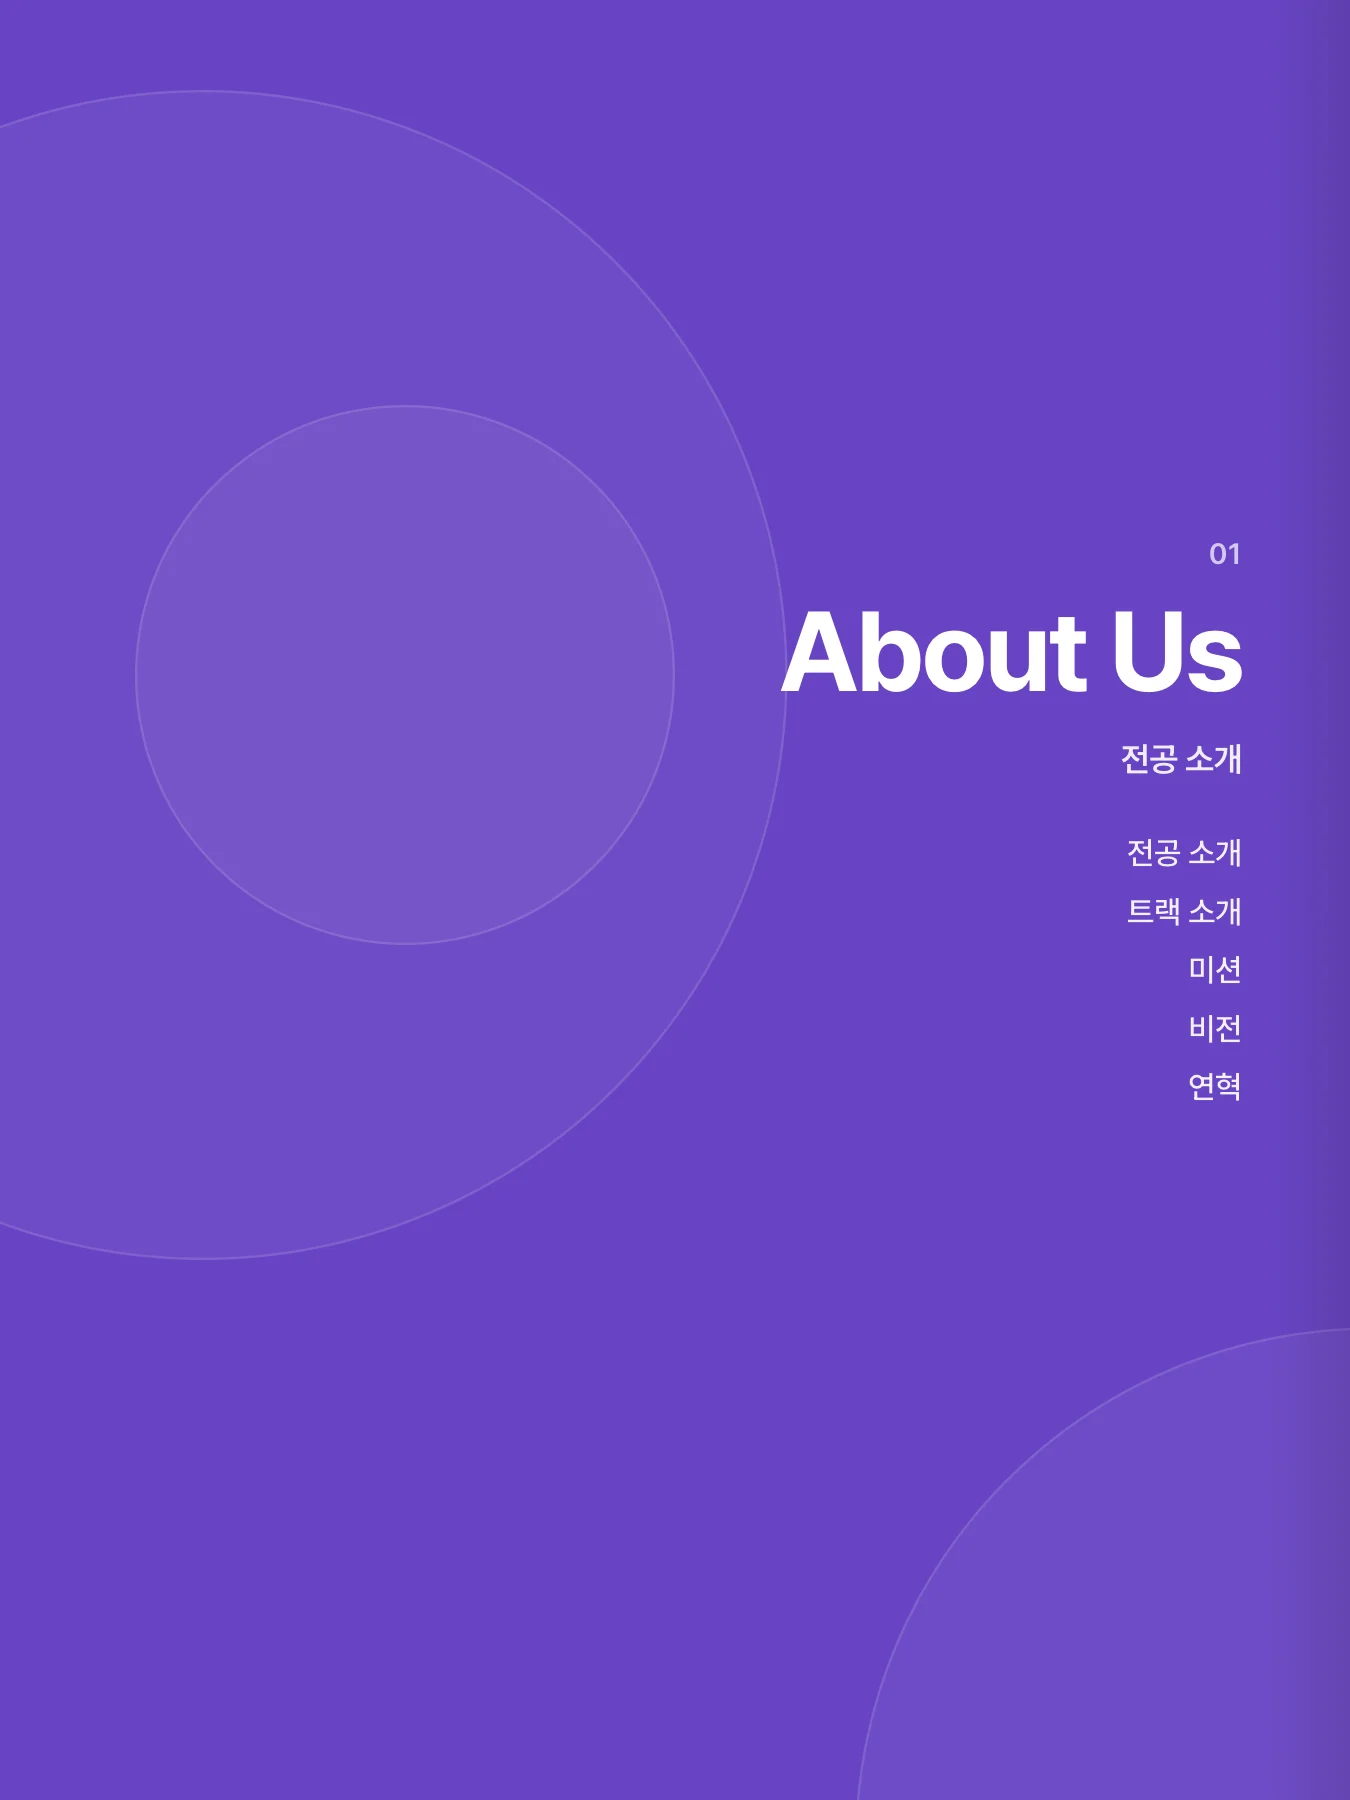
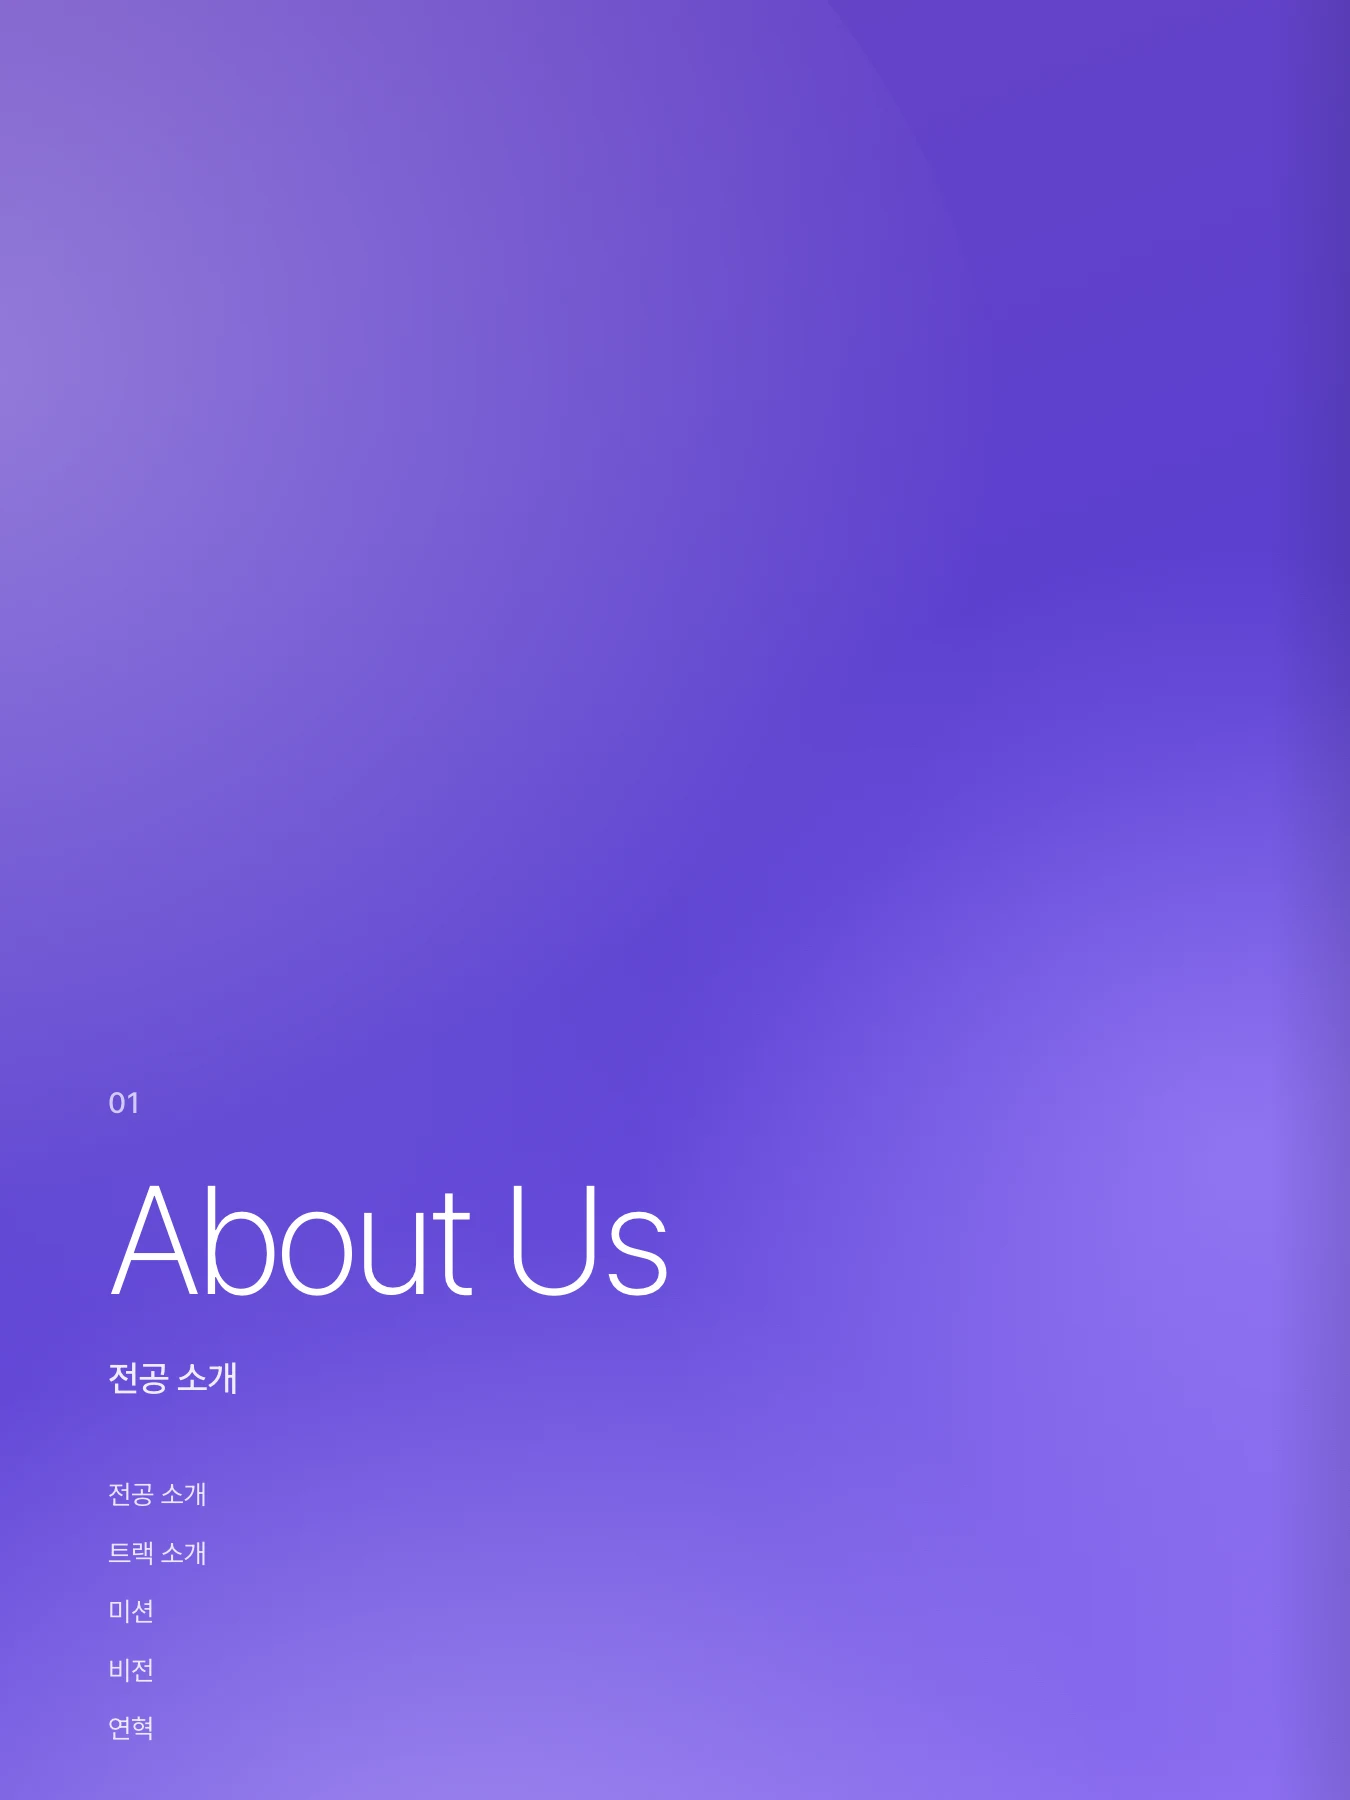
애뉴얼 리포트 장 표지 11쪽: 보라 그라데이션 전면과 가는 굵기 큰 제목으로 변경, 제목 위치를 모든 장에서 같게 고정

diff --git a/client/src/pages/annual/annualPages.css b/client/src/pages/annual/annualPages.css
@@ -1787,3 +1787,67 @@
 .ap-awone.is-narrow {
   grid-template-columns: 160px 1fr !important;
 }
+
+/* 장 표지 2안: 쪽 전체를 보라 그라데이션으로 채우고, 큰 빛 덩어리 셋이 쪽을 가로지르며, 제목은 가는 굵기로 크게.
+   (참고: 한국 연보 제작 사례의 풀블리드 그라데이션 장 표지) */
+.ap-sheet--opener {
+  background: linear-gradient(158deg, rgb(var(--dah-purple-deep)) 0%, #5a3fd1 52%, #8d70f2 100%);
+}
+.ap-opener__ring {
+  border: 0;
+}
+.ap-opener__ring--a {
+  width: 780px;
+  height: 780px;
+  left: -330px;
+  top: -150px;
+  background: radial-gradient(circle at 40% 40%, rgb(255 255 255 / 0.3), rgb(255 255 255 / 0.05) 58%, transparent 70%);
+}
+.ap-opener__ring--b {
+  width: 560px;
+  height: 560px;
+  left: auto;
+  right: -230px;
+  top: 232px;
+  background: radial-gradient(circle, rgb(168 140 255 / 0.6), transparent 68%);
+}
+.ap-opener__ring--c {
+  width: 680px;
+  height: 680px;
+  right: auto;
+  left: -150px;
+  bottom: -400px;
+  background: radial-gradient(circle, rgb(255 255 255 / 0.24), transparent 66%);
+}
+.ap-opener__body {
+  left: 48px;
+  right: 48px;
+  top: 480px;
+  bottom: auto;
+  align-items: flex-start;
+  text-align: left;
+}
+.ap-sheet .ap-opener__no {
+  font-size: 13px;
+  font-weight: 500;
+  margin-bottom: 16px;
+}
+.ap-sheet .ap-opener__body h2 {
+  font-size: 68px;
+  line-height: 1.04;
+  font-weight: 200;
+  letter-spacing: -0.045em;
+}
+.ap-sheet .ap-opener__kr {
+  margin-top: 16px;
+  font-size: 16px;
+  font-weight: 500;
+}
+.ap-sheet .ap-opener__body ul {
+  align-items: flex-start;
+  margin-top: 32px;
+  font-size: 12px;
+  font-weight: 400;
+  gap: 6px;
+  color: rgb(255 255 255 / 0.85);
+}
